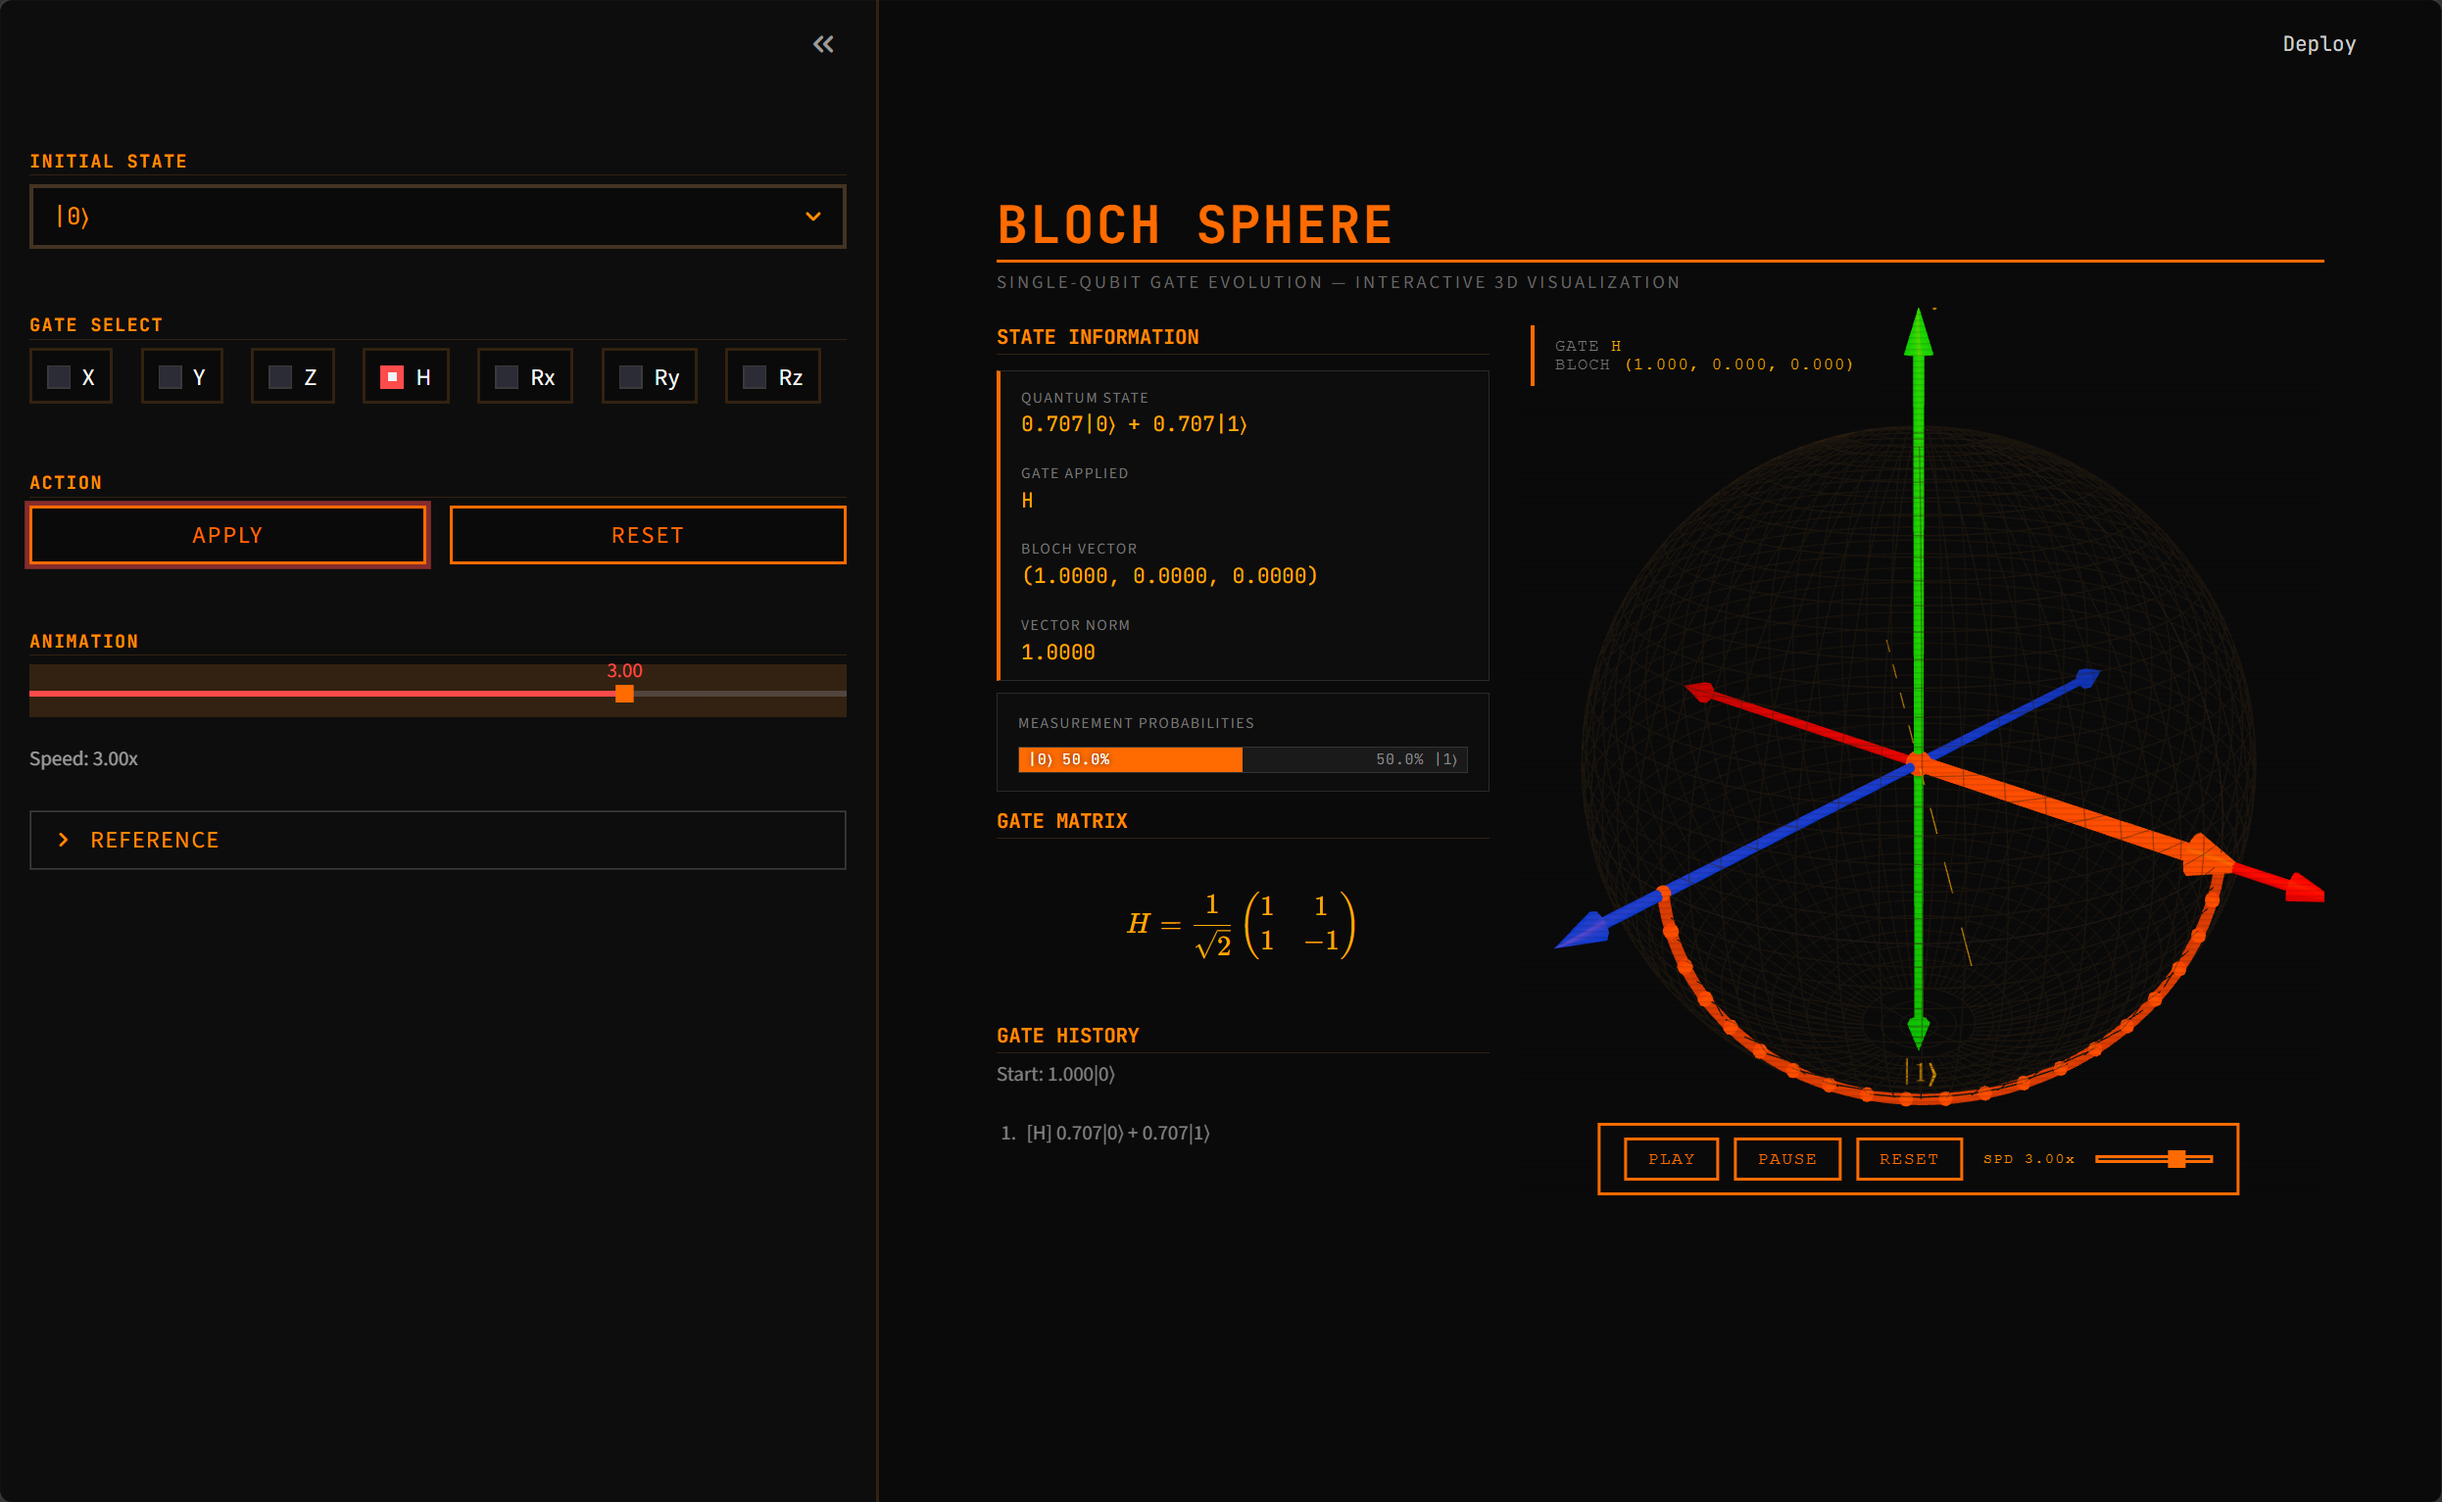
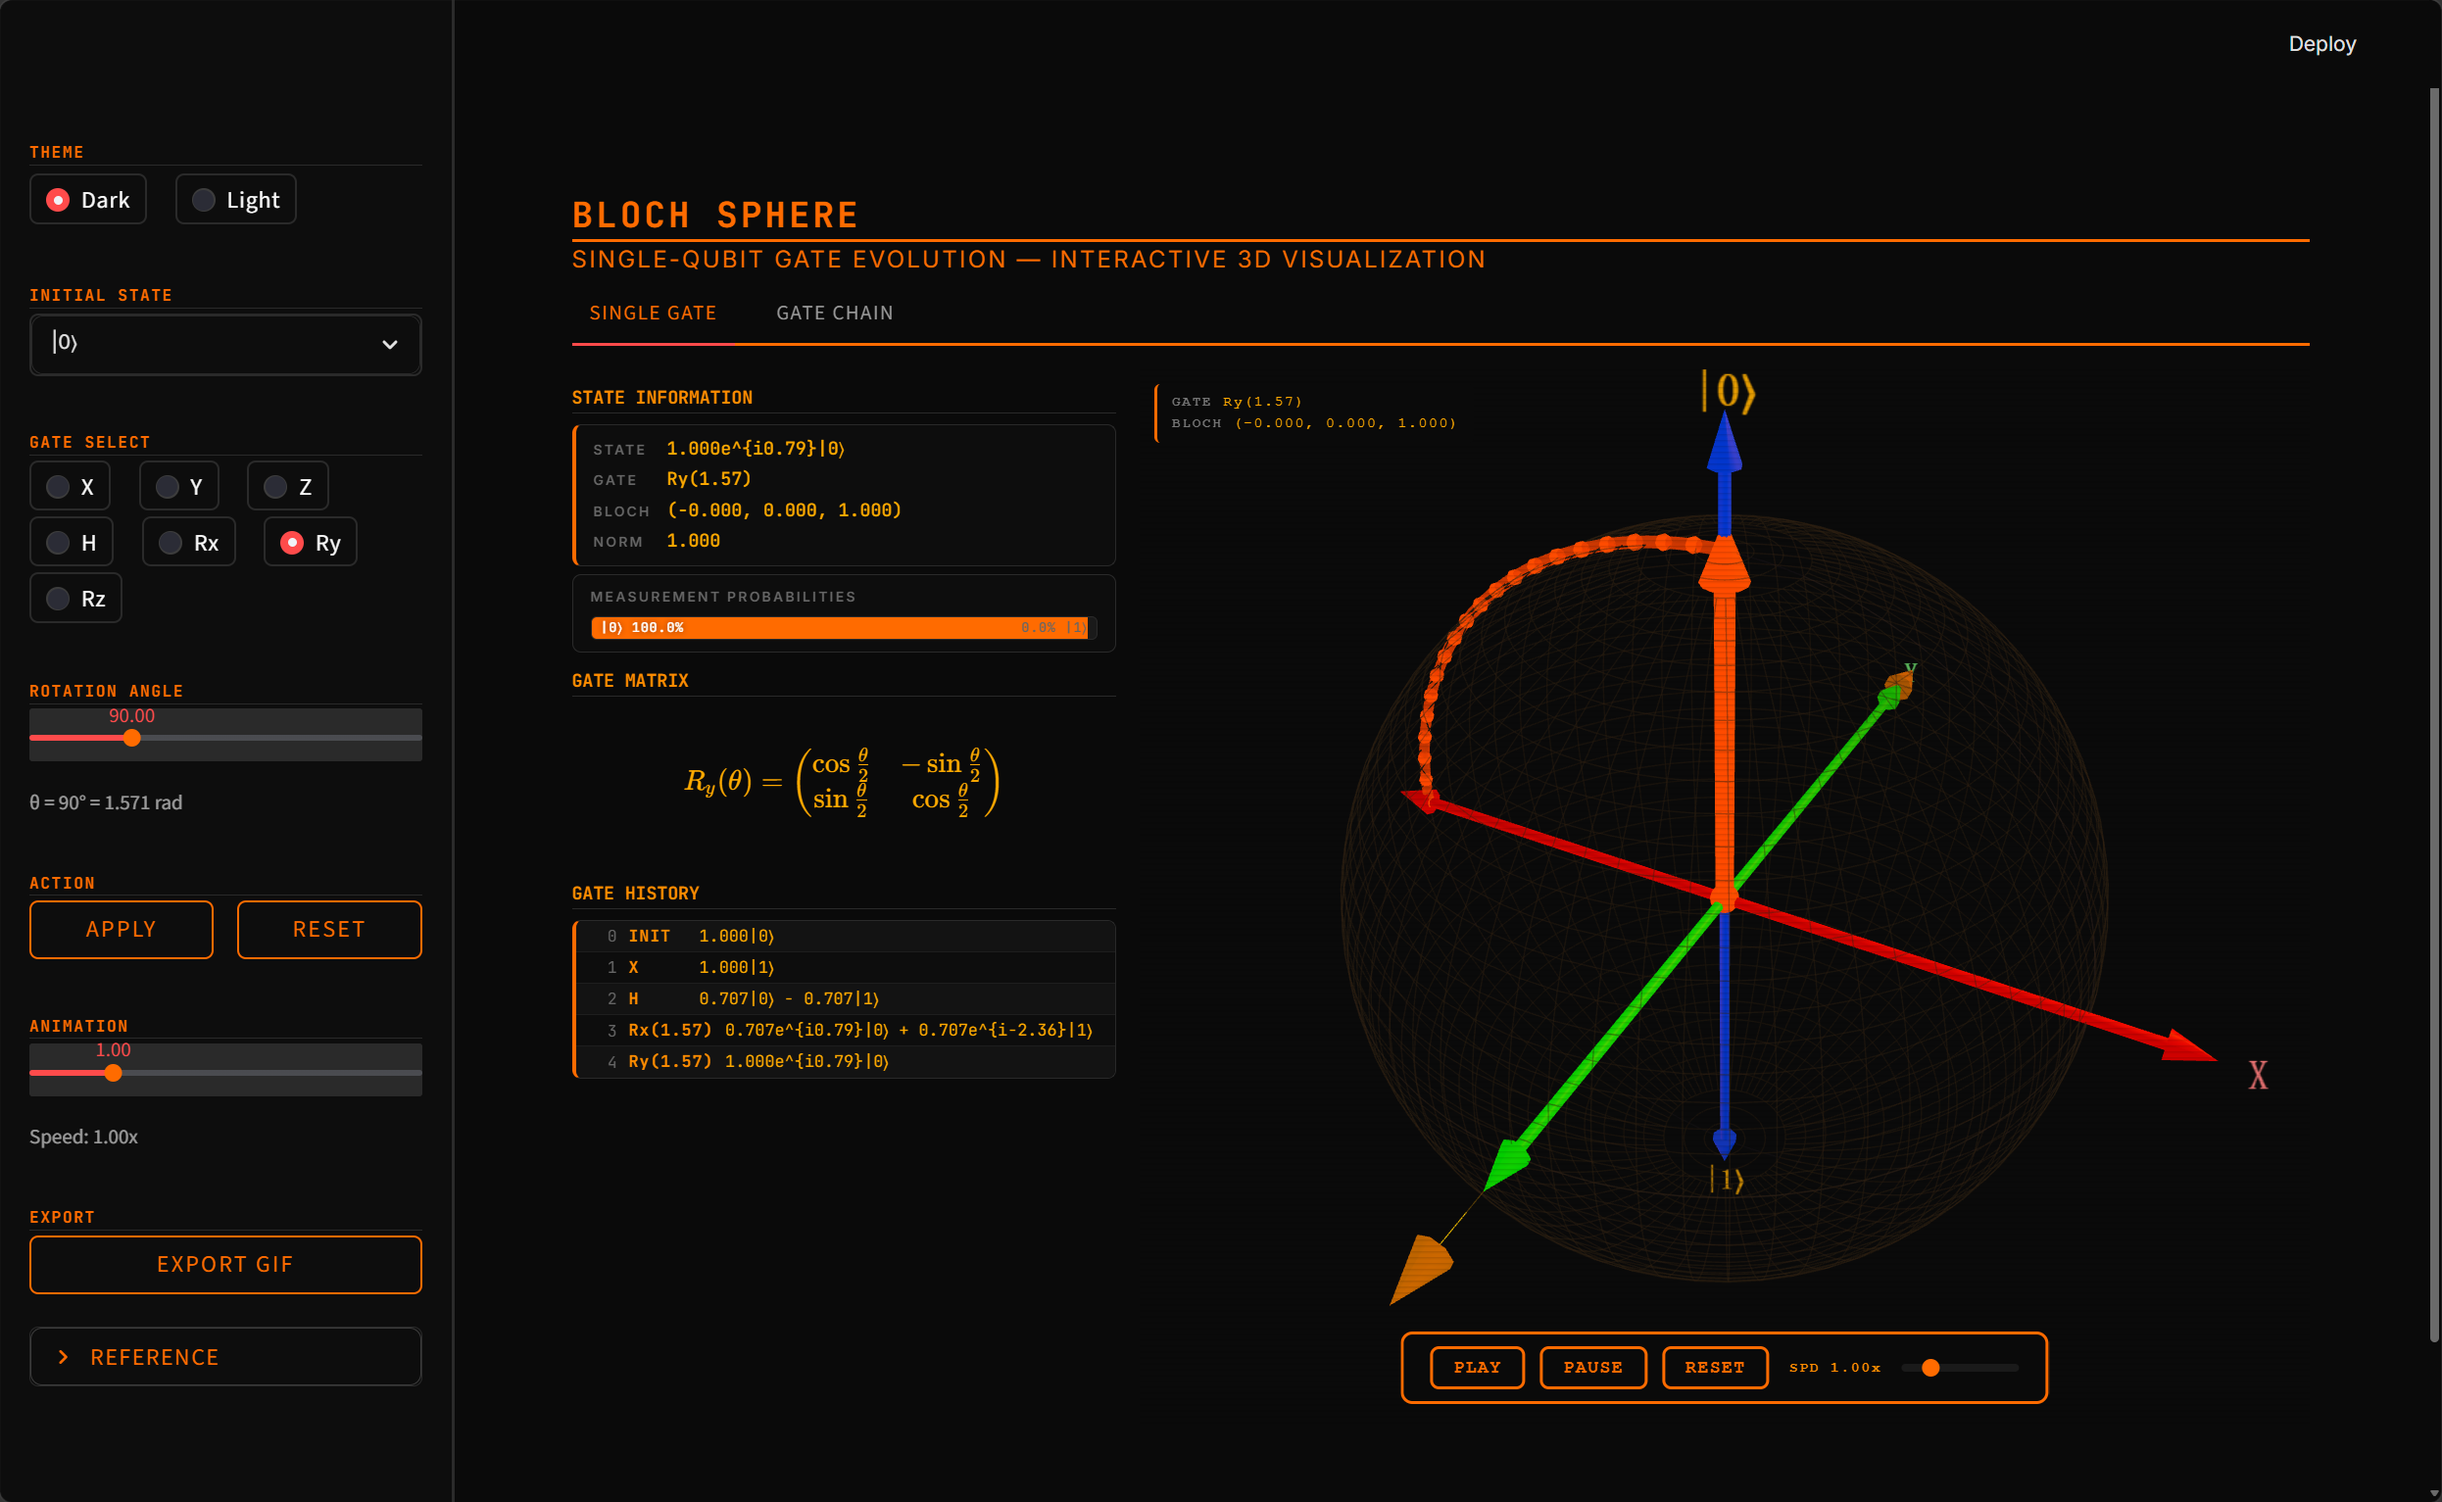
DOne

diff --git a/ui/styles.py b/ui/styles.py
@@ -1062,6 +1062,38 @@ div[data-baseweb="popover"] {{
     color: #ffffff !important;
 }}
 
+/* Popover: radio buttons */
+[data-baseweb="popover"] .stRadio label,
+[data-baseweb="popover"] [data-baseweb="popover"] .stRadio label {{
+    background: var(--bg-root) !important;
+    color: var(--text-secondary) !important;
+    border-color: var(--border) !important;
+}}
+[data-baseweb="popover"] .stRadio label[data-selected="true"],
+[data-baseweb="popover"] [data-baseweb="popover"] .stRadio label[data-selected="true"] {{
+    background: var(--accent-bg) !important;
+    color: var(--accent) !important;
+    border-color: var(--accent) !important;
+}}
+
+/* Popover: slider */
+[data-baseweb="popover"] .stSlider [data-baseweb="slider"] > div:first-child,
+[data-baseweb="popover"] [data-baseweb="popover"] .stSlider [data-baseweb="slider"] > div:first-child {{
+    background: var(--border) !important;
+}}
+
+/* Popover: caption / markdown text */
+[data-baseweb="popover"] .stCaption,
+[data-baseweb="popover"] [data-baseweb="popover"] .stCaption,
+[data-baseweb="popover"] p,
+[data-baseweb="popover"] [data-baseweb="popover"] p,
+[data-baseweb="popover"] span,
+[data-baseweb="popover"] [data-baseweb="popover"] span,
+[data-baseweb="popover"] label,
+[data-baseweb="popover"] [data-baseweb="popover"] label {{
+    color: var(--text-primary) !important;
+}}
+
 /* Tooltip */
 [data-baseweb="tooltip"],
 [data-baseweb="tooltip"] * {{
